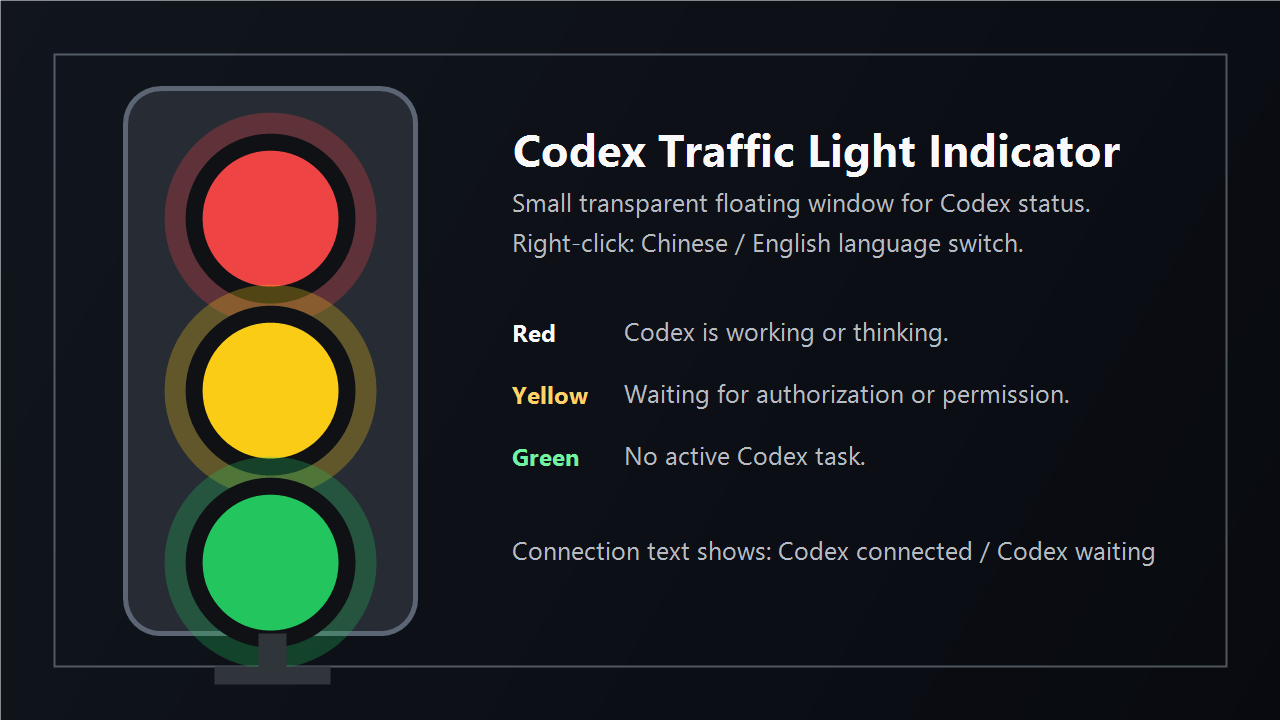
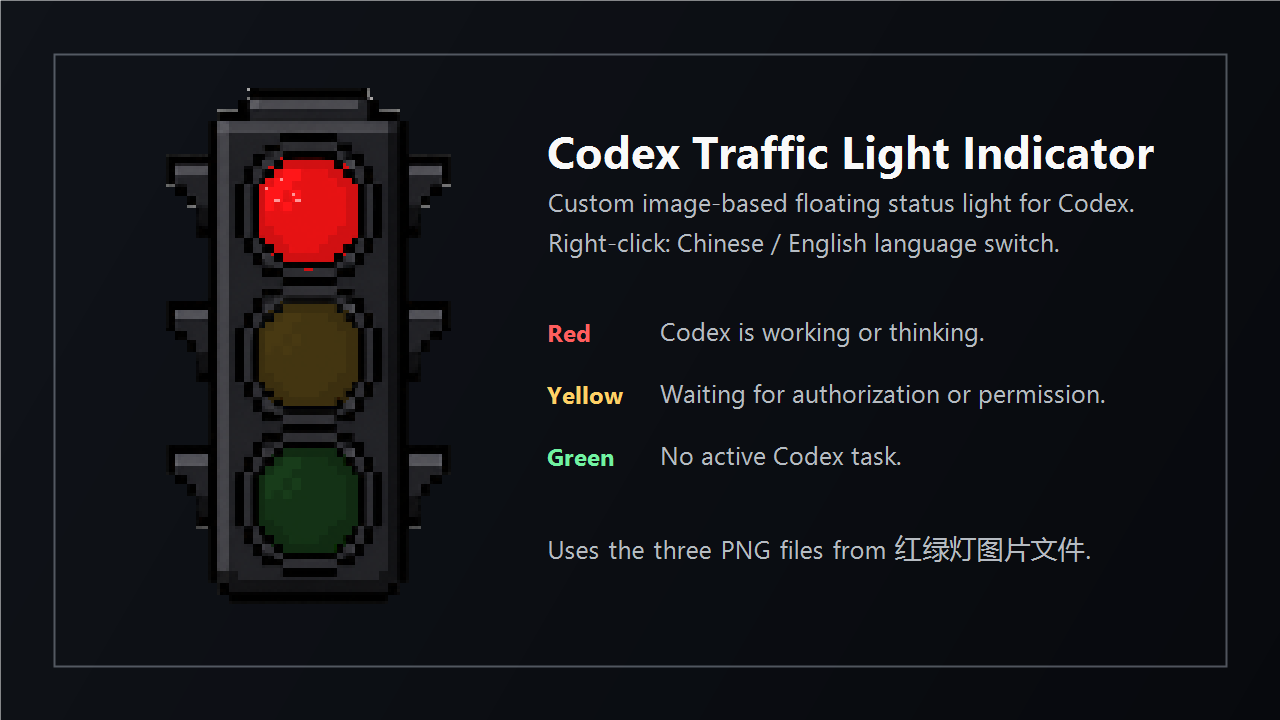
Use custom traffic light images

diff --git a/scripts/traffic_light_window.py b/scripts/traffic_light_window.py
@@ -22,6 +22,12 @@ TASK_ACTIVE_MAX_AGE_SECONDS = 7200
 MAX_SESSION_SCAN_BYTES = 2_000_000
 CODEX_STATE_PATH = Path.home() / ".codex" / ".codex-global-state.json"
 CODEX_SESSIONS_ROOT = Path.home() / ".codex" / "sessions"
+ASSET_DIR = Path(__file__).resolve().parents[1] / "assets"
+STATUS_IMAGE_FILES = {
+    "red": "traffic-light-red.png",
+    "yellow": "traffic-light-yellow.png",
+    "green": "traffic-light-green.png",
+}
 UI_TEXT = {
     "zh": {
         "connected": "Codex\uff1a\u5df2\u6210\u529f\u8fde\u63a5",
@@ -68,16 +74,13 @@ class TrafficLightWindow:
 
         self.canvas = tk.Canvas(self.root, width=128, height=172, bg=TRANSPARENT_COLOR, highlightthickness=0)
         self.canvas.pack(pady=(12, 0))
-
-        self.canvas.create_round_rectangle = self._round_rectangle  # type: ignore[attr-defined]
-        self.canvas.create_round_rectangle(24, 4, 104, 168, radius=18, fill="#262a31", outline="#3a404a", width=2)
-        self.lights = {
-            "red": self.canvas.create_oval(42, 20, 86, 64, fill="#5b1d20", outline="#1f1113", width=3),
-            "yellow": self.canvas.create_oval(42, 68, 86, 112, fill="#5c4b1d", outline="#211c10", width=3),
-            "green": self.canvas.create_oval(42, 116, 86, 160, fill="#1d4f34", outline="#101f16", width=3),
-        }
-        self.canvas.create_rectangle(57, 168, 71, 184, fill="#30343b", outline="")
-        self.canvas.create_rectangle(38, 184, 90, 192, fill="#30343b", outline="")
+        self.status_images = self.load_status_images()
+        self.light_item: int | None = None
+        self.lights: dict[str, int] = {}
+        if self.status_images:
+            self.light_item = self.canvas.create_image(64, 86, image=self.status_images["green"], anchor="center")
+        else:
+            self.draw_fallback_light()
 
         self.text_canvas = tk.Canvas(self.root, width=188, height=48, bg=TRANSPARENT_COLOR, highlightthickness=0)
         self.text_canvas.pack(pady=(6, 0))
@@ -107,6 +110,26 @@ class TrafficLightWindow:
             widget.bind("<Button-3>", self.show_menu)
 
         self.poll()
+
+    def load_status_images(self) -> dict[str, tk.PhotoImage]:
+        images: dict[str, tk.PhotoImage] = {}
+        try:
+            for status, filename in STATUS_IMAGE_FILES.items():
+                images[status] = tk.PhotoImage(file=str(ASSET_DIR / filename))
+        except tk.TclError:
+            return {}
+        return images
+
+    def draw_fallback_light(self) -> None:
+        self.canvas.create_round_rectangle = self._round_rectangle  # type: ignore[attr-defined]
+        self.canvas.create_round_rectangle(24, 4, 104, 168, radius=18, fill="#262a31", outline="#3a404a", width=2)
+        self.lights = {
+            "red": self.canvas.create_oval(42, 20, 86, 64, fill="#5b1d20", outline="#1f1113", width=3),
+            "yellow": self.canvas.create_oval(42, 68, 86, 112, fill="#5c4b1d", outline="#211c10", width=3),
+            "green": self.canvas.create_oval(42, 116, 86, 160, fill="#1d4f34", outline="#101f16", width=3),
+        }
+        self.canvas.create_rectangle(57, 168, 71, 184, fill="#30343b", outline="")
+        self.canvas.create_rectangle(38, 184, 90, 192, fill="#30343b", outline="")
 
     def _round_rectangle(self, x1: int, y1: int, x2: int, y2: int, radius: int = 16, **kwargs: object) -> int:
         points = [
@@ -380,13 +403,16 @@ class TrafficLightWindow:
             active = "green"
             data["message"] = status_label("green", self.language)
             write_status("green", status_label("green", self.language), language=self.language)
-        colors = {
-            "red": ("#ef4444", "#5b1d20"),
-            "yellow": ("#facc15", "#5c4b1d"),
-            "green": ("#22c55e", "#1d4f34"),
-        }
-        for name, item in self.lights.items():
-            self.canvas.itemconfig(item, fill=colors[name][0 if name == active else 1])
+        if self.light_item is not None and active in self.status_images:
+            self.canvas.itemconfig(self.light_item, image=self.status_images[active])
+        else:
+            colors = {
+                "red": ("#ef4444", "#5b1d20"),
+                "yellow": ("#facc15", "#5c4b1d"),
+                "green": ("#22c55e", "#1d4f34"),
+            }
+            for name, item in self.lights.items():
+                self.canvas.itemconfig(item, fill=colors[name][0 if name == active else 1])
 
         status_text = status_label(str(active), self.language)
         self.update_outlined_text(self.text_canvas, self.status_text_items, status_text, "#ffffff")